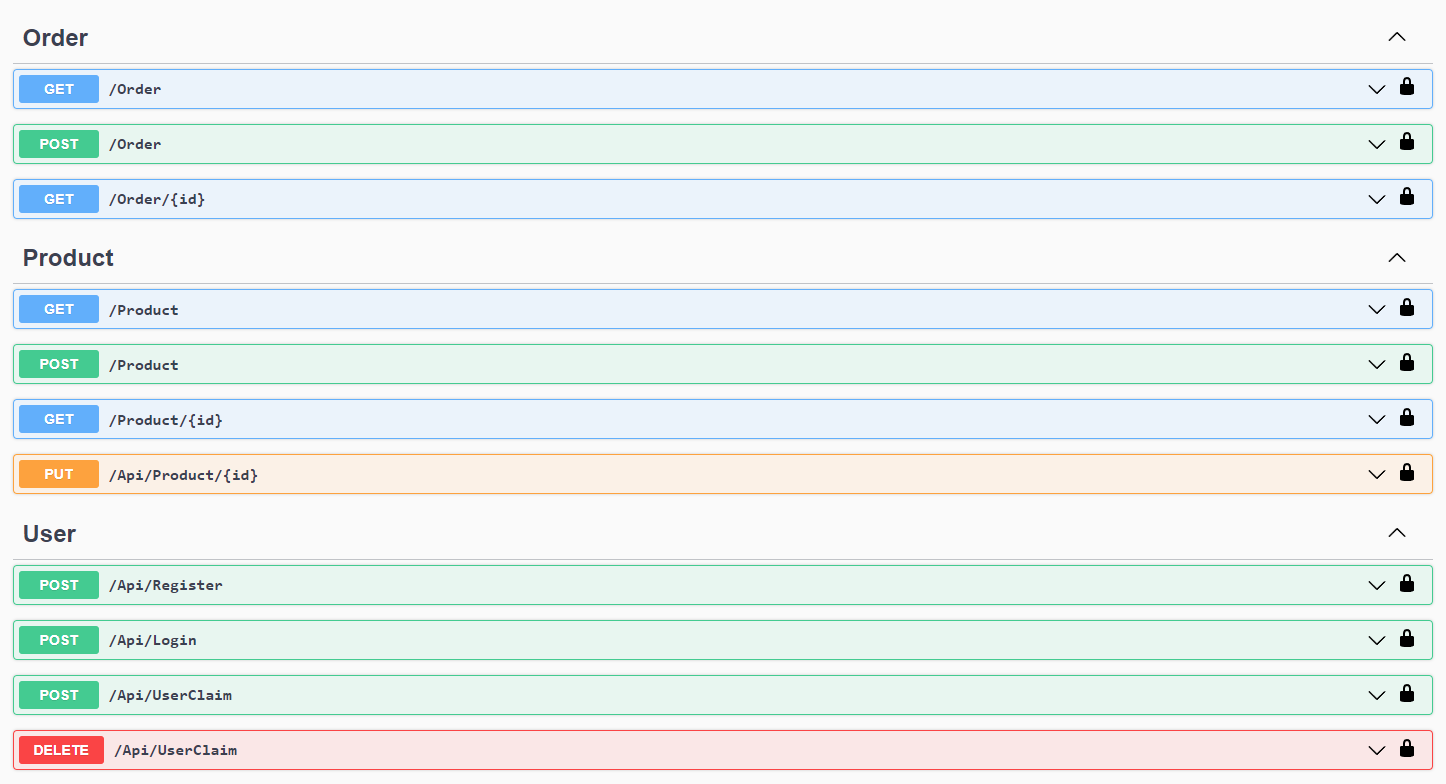
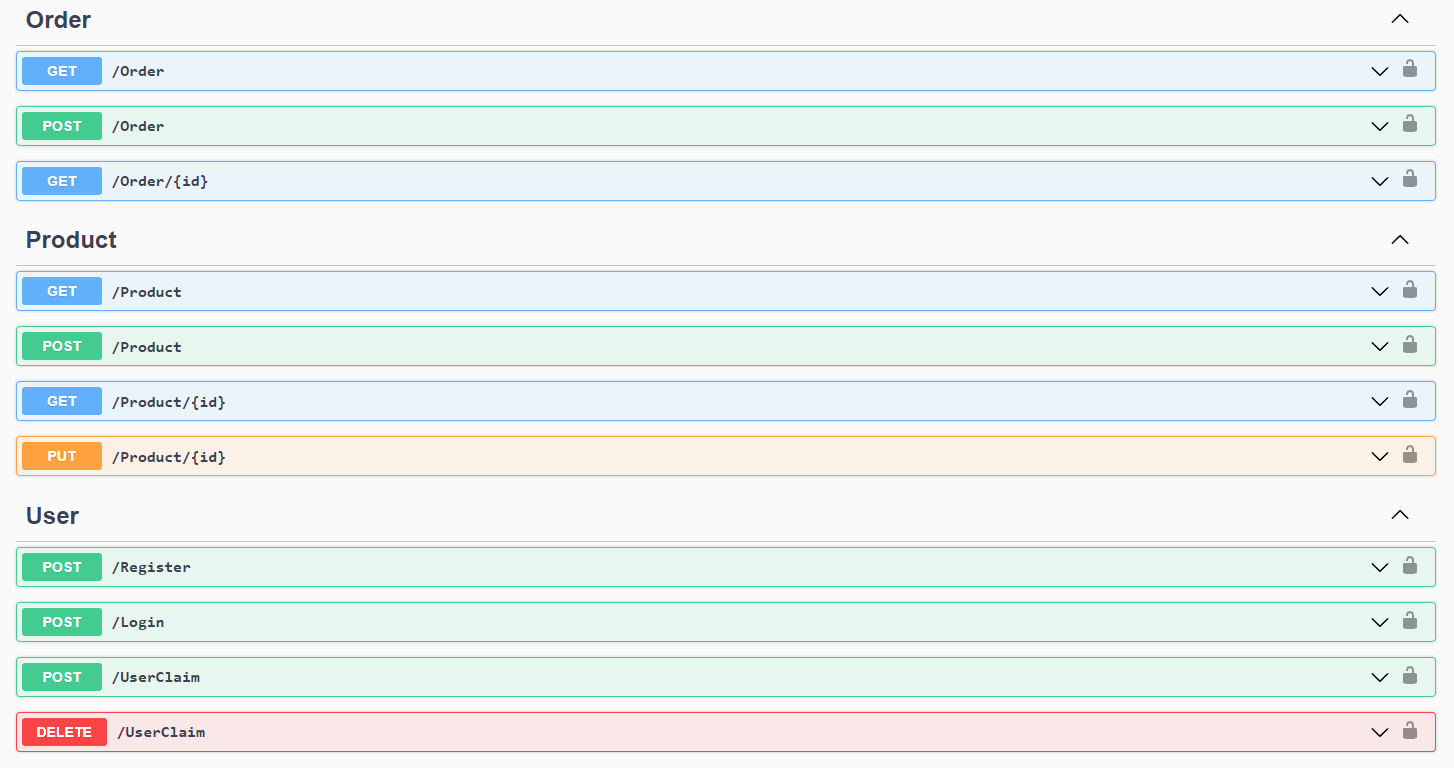
Finalizado.

Changed region(s): [[0.0, 0.0, 0.9959, 0.625], [0.0, 0.6562, 0.9959, 1.0]]

diff --git a/HandmadeDolls/Program.cs b/HandmadeDolls/Program.cs
@@ -105,7 +105,7 @@ void MapActions(WebApplication app)
 {
     #region JWT
 
-    app.MapPost("/Api/Register", [AllowAnonymous] async (SignInManager<IdentityUser> signInManager, UserManager<IdentityUser> userManager, IOptions<AppJwtSettings> appJwtSettings, RegisterUser registerUser) =>
+    app.MapPost("/Register", [AllowAnonymous] async (SignInManager<IdentityUser> signInManager, UserManager<IdentityUser> userManager, IOptions<AppJwtSettings> appJwtSettings, RegisterUser registerUser) =>
     {
         if (registerUser == null)
             return Results.BadRequest("User not informed.");
@@ -141,7 +141,7 @@ void MapActions(WebApplication app)
       .WithName("RegisterUser")
       .WithTags("User");
 
-    app.MapPost("/Api/Login", [AllowAnonymous] async (SignInManager<IdentityUser> signInManager, UserManager<IdentityUser> userManager, IOptions<AppJwtSettings> appJwtSettings, LoginUser loginUser) =>
+    app.MapPost("/Login", [AllowAnonymous] async (SignInManager<IdentityUser> signInManager, UserManager<IdentityUser> userManager, IOptions<AppJwtSettings> appJwtSettings, LoginUser loginUser) =>
     {
         if (loginUser == null)
             return Results.BadRequest("User not informed.");
@@ -174,7 +174,7 @@ void MapActions(WebApplication app)
       .WithName("LoginUser")
       .WithTags("User");
 
-    app.MapPost("/Api/UserClaim", [Authorize] async (SignInManager<IdentityUser> signInManager, MinimalContextDb context, string loginUser, string claim) =>
+    app.MapPost("/UserClaim", [Authorize] async (SignInManager<IdentityUser> signInManager, MinimalContextDb context, string loginUser, string claim) =>
     {        
         if (loginUser == null)
             return Results.BadRequest("User not informed.");
@@ -201,7 +201,7 @@ void MapActions(WebApplication app)
       .WithName("UserClaim")
       .WithTags("User");
 
-    app.MapDelete("/Api/UserClaim", [Authorize] async (SignInManager<IdentityUser> signInManager, MinimalContextDb context, string loginUser, string claim) =>
+    app.MapDelete("/UserClaim", [Authorize] async (SignInManager<IdentityUser> signInManager, MinimalContextDb context, string loginUser, string claim) =>
     {
         if (loginUser == null)
             return Results.BadRequest("User not informed.");
@@ -341,7 +341,7 @@ void MapActions(WebApplication app)
 
     #region PUT's
 
-    app.MapPut("/Api/Product/{id}", [Authorize] async (int id, MinimalContextDb context, Product product) =>
+    app.MapPut("/Product/{id}", [Authorize] async (int id, MinimalContextDb context, Product product) =>
     {
         var putProduct = await context.Products.AsNoTracking<Product>().FirstOrDefaultAsync(p => p.Id == id);
 
